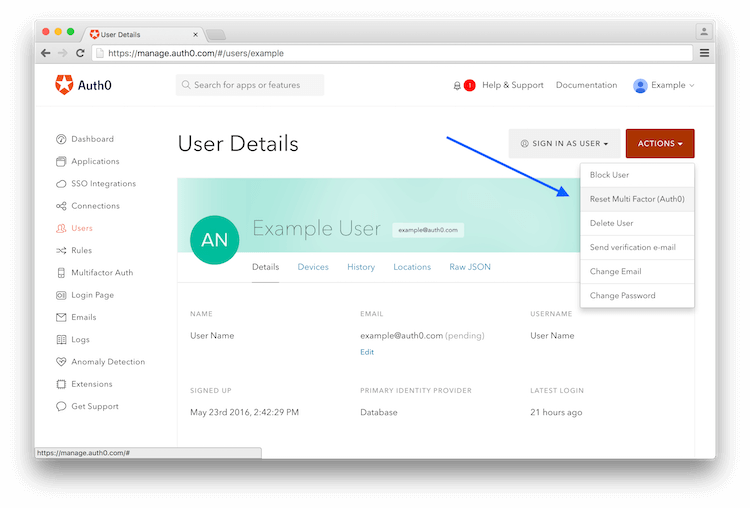
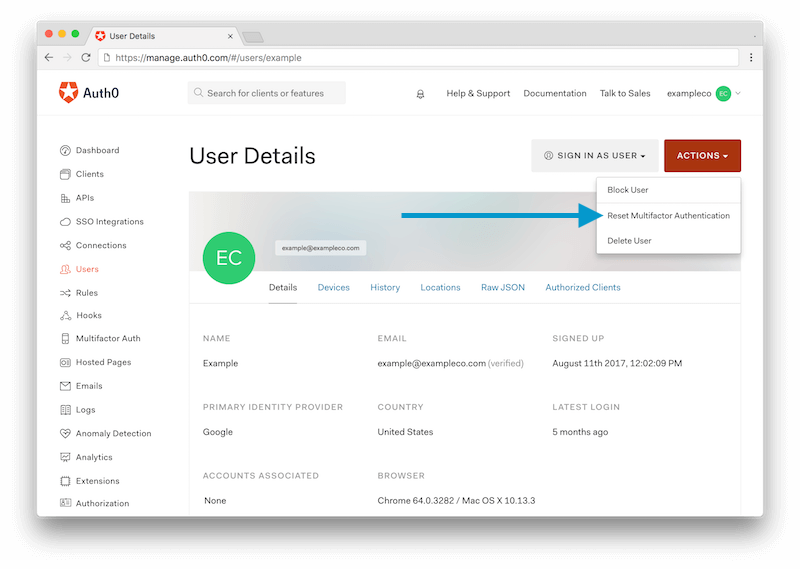
Update mfa reset screenshot and steps

diff --git a/articles/multifactor-authentication/administrator/reset-user.md b/articles/multifactor-authentication/administrator/reset-user.md
@@ -9,7 +9,7 @@ To reset a user's multifactor authentication:
 
 1. Find and select the user in the [Users](${manage_url}/#/users) section of the dashboard.
 2. Once you have selected the affected user, click on the **Actions** button on the top right of the screen.
-3. Select **Reset Multifactor (Auth0)** from the dropdown.
+3. Select **Reset Multifactor Authentication** from the dropdown.
 4. There will be a pop up box to confirm your decision.  Click **YES, RESET IT** to reset the user's MFA.
 
  ![](/media/articles/mfa/reset-mfa.png)

diff --git a/articles/multifactor-authentication/guardian/admin-guide.md b/articles/multifactor-authentication/guardian/admin-guide.md
@@ -173,7 +173,7 @@ To reset a user's MFA:
 
 1.  Find and select the user in the [Users](${manage_url}/#/users) section of the dashboard.
 2. Once you have selected the affected user, click on the **Actions** button on the top right of the screen.
-3. Select **Reset Multi Factor (Auth0)** from the dropdown.
+3. Select **Reset Multifactor Authentication** from the dropdown.
 4. There will be a pop up box to confirm your decision.  Click **YES, RESET IT** to reset the user's MFA.
 
  ![](/media/articles/mfa/reset-mfa.png)
